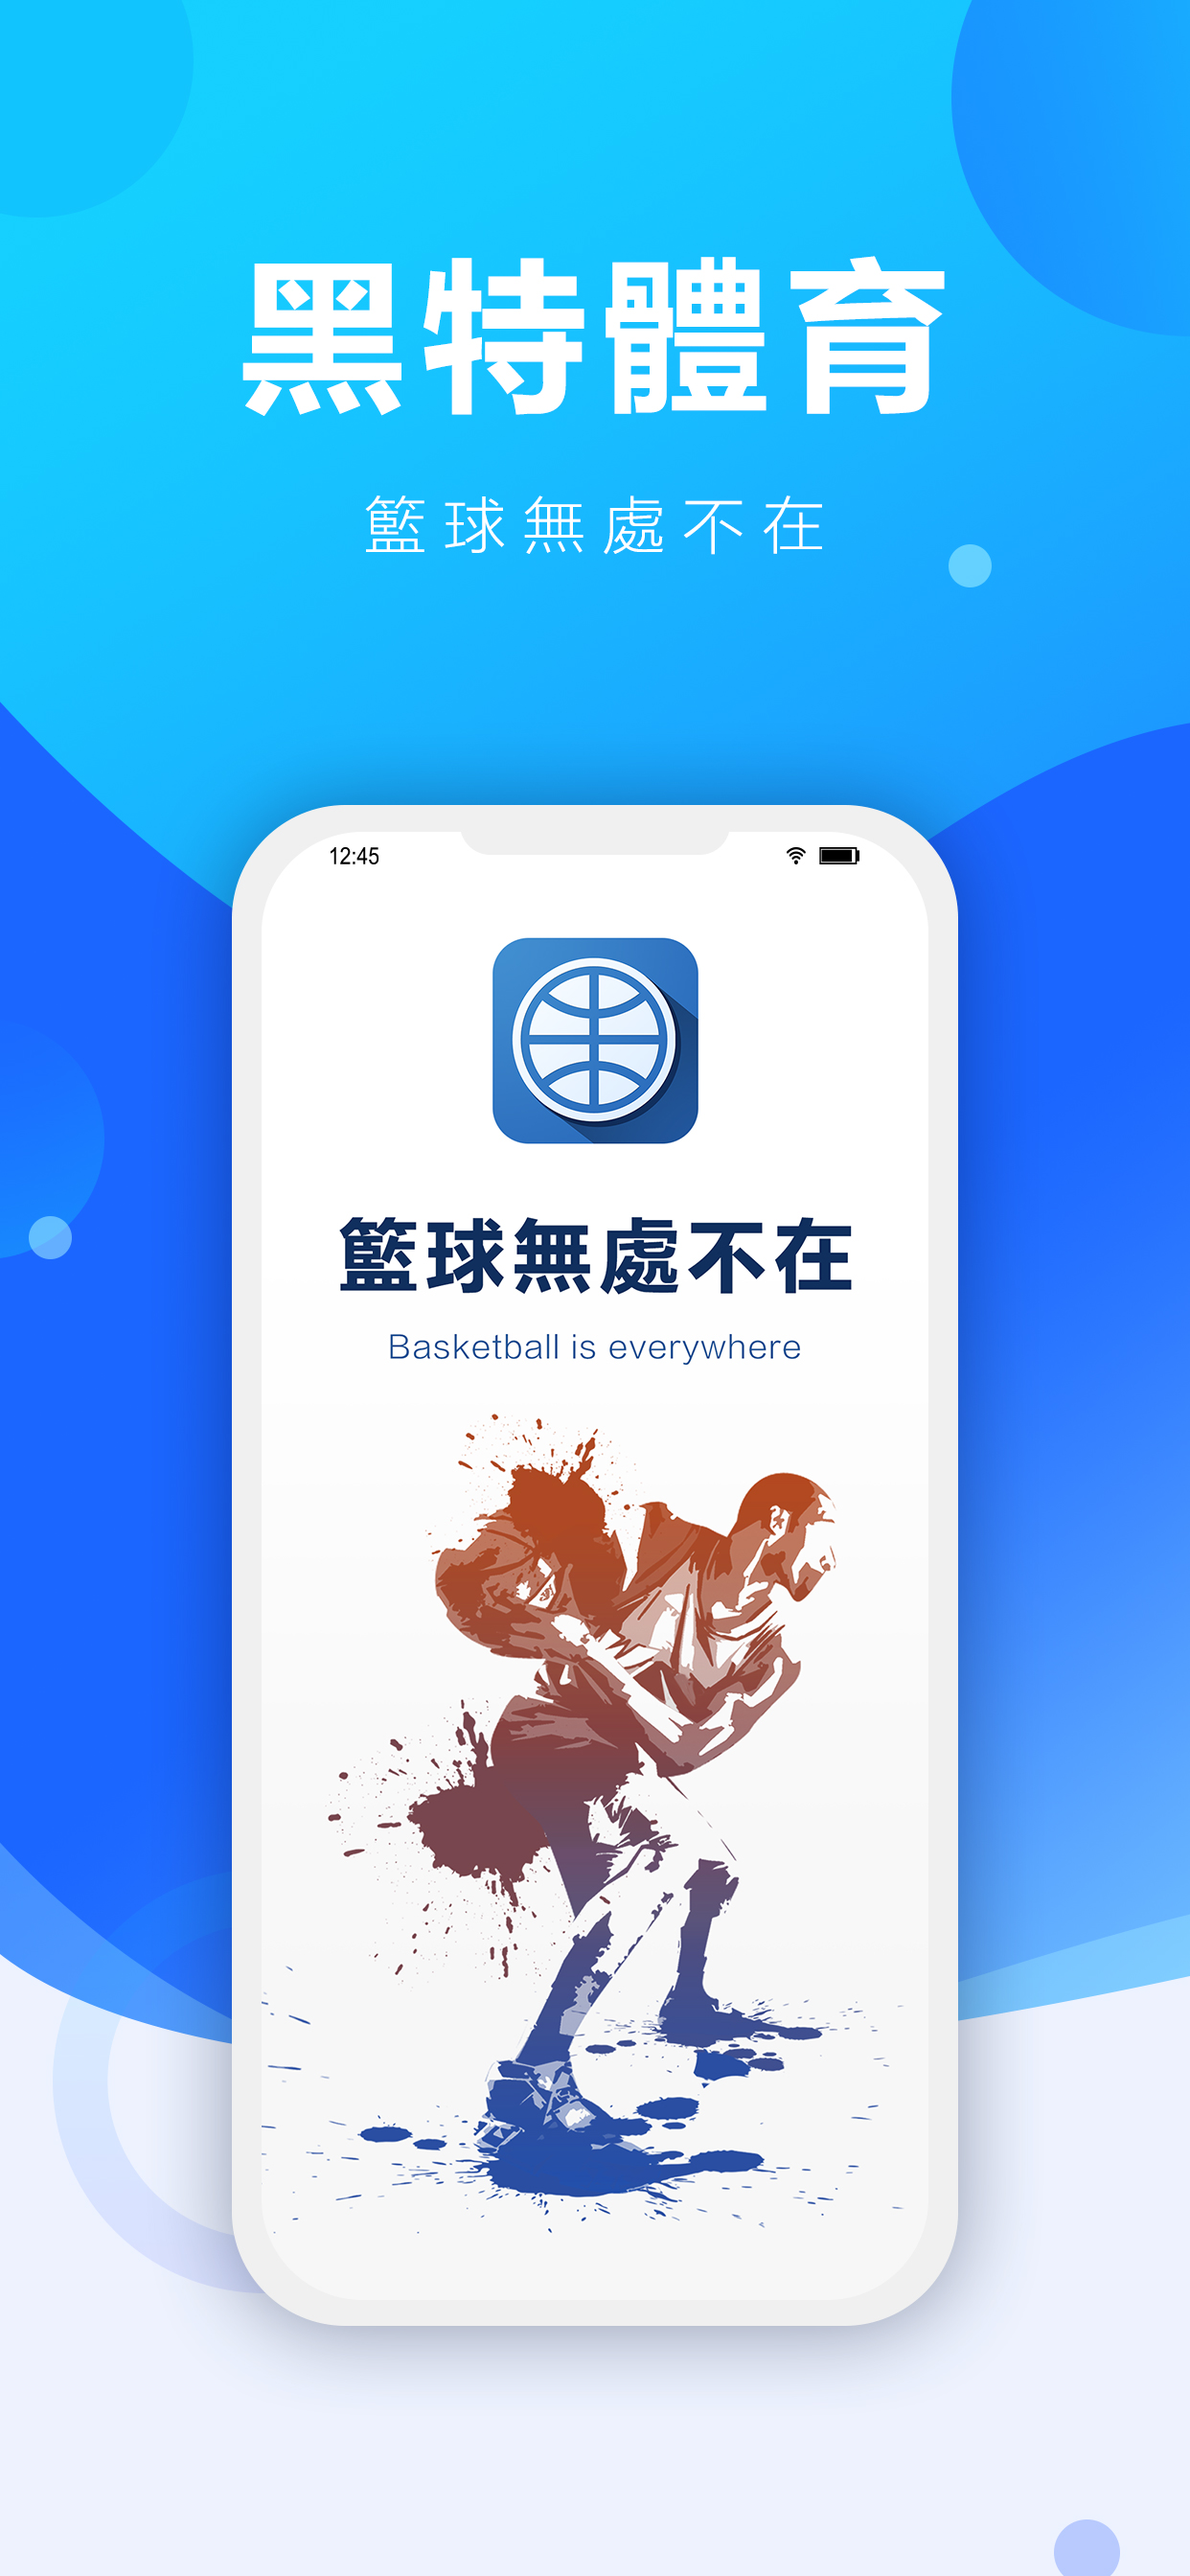
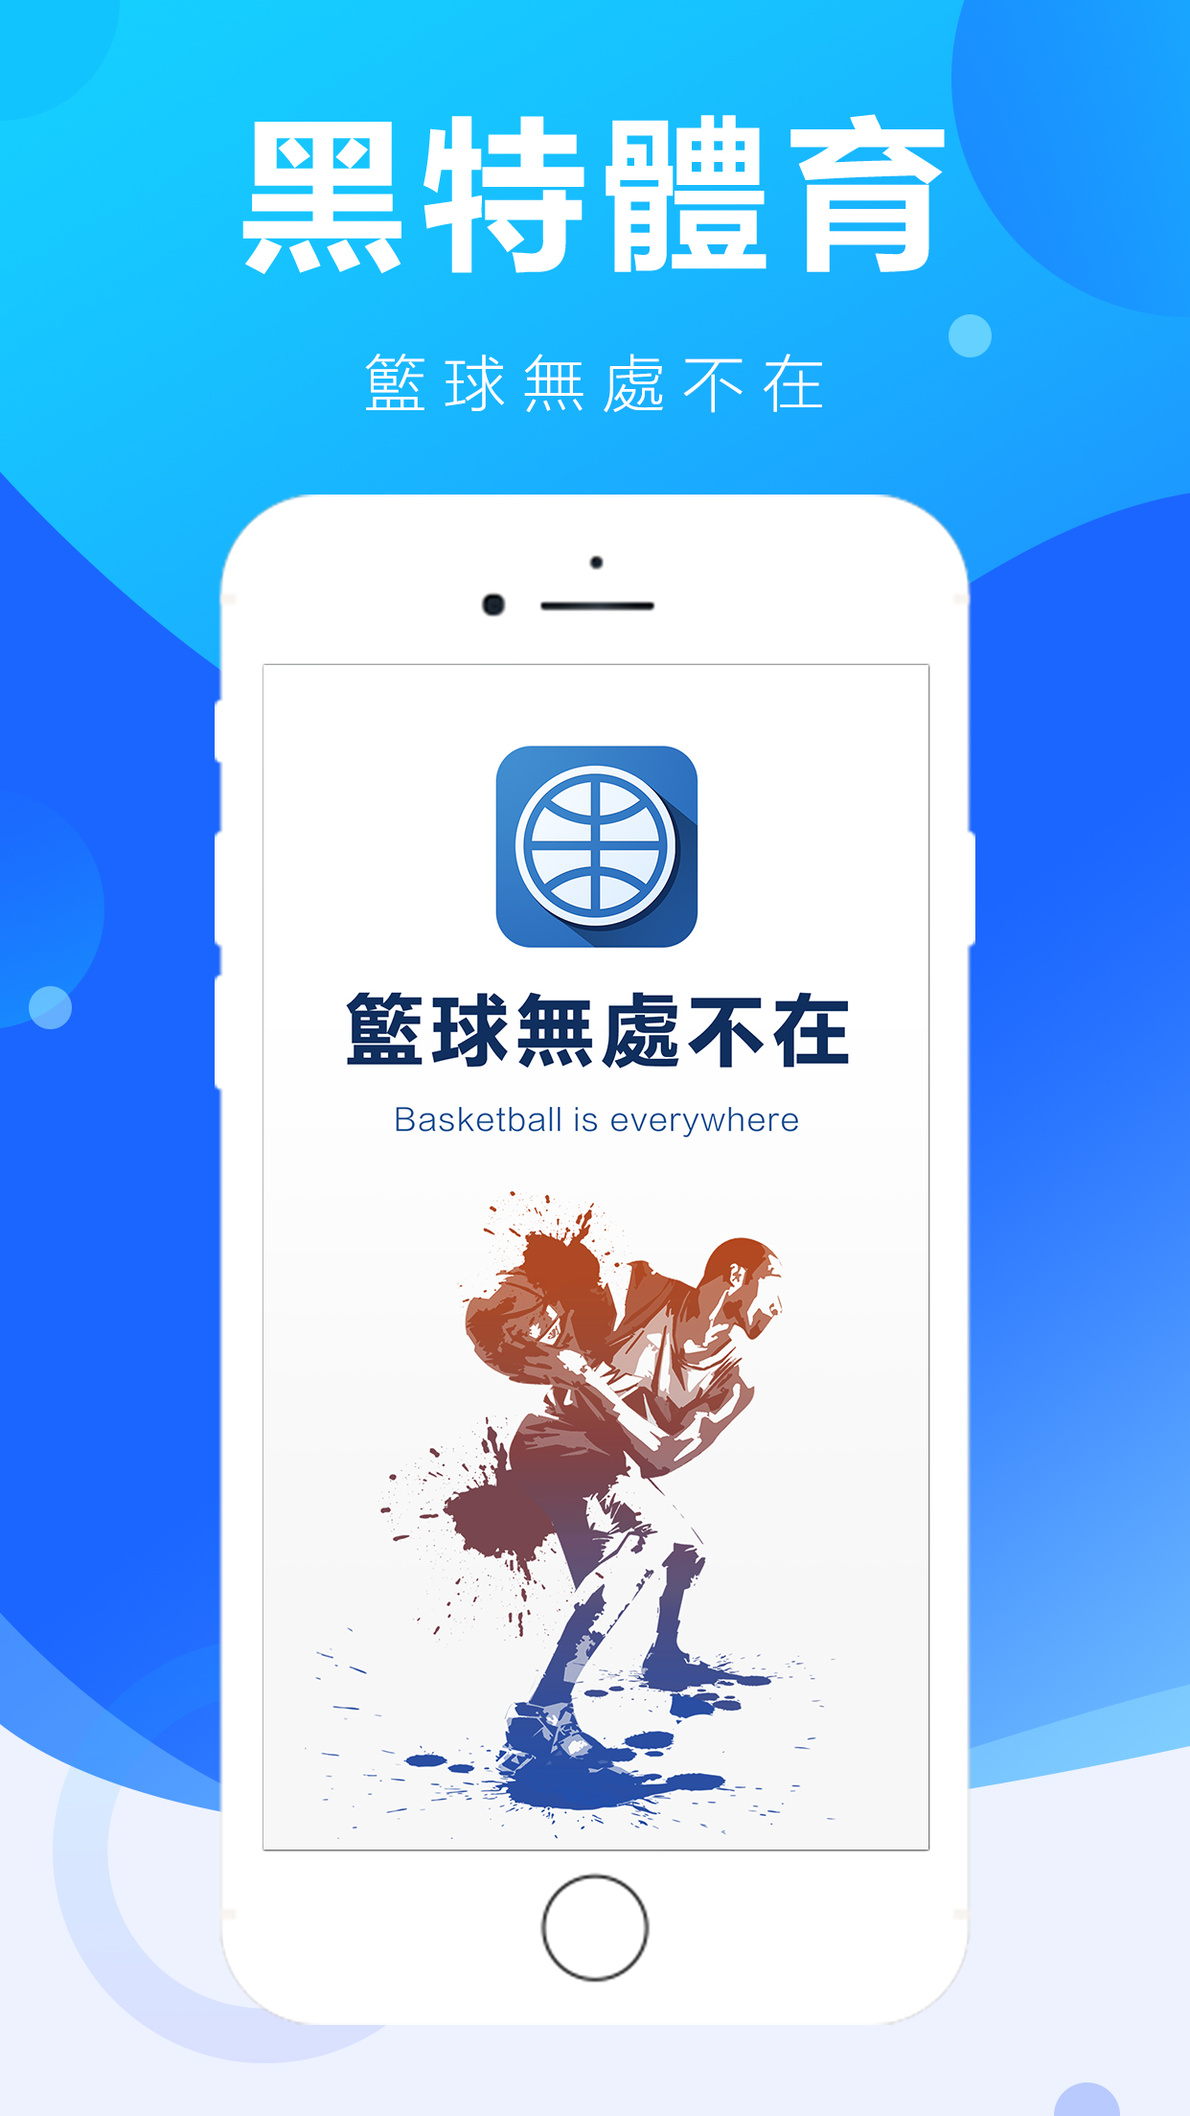
更新启动引导图

diff --git a/SkyBetufi/SourceCode/SkySrc/SkyUI/MMBBLaunch/SkyBallHetiRedPPXXBJLaunchViewController.m b/SkyBetufi/SourceCode/SkySrc/SkyUI/MMBBLaunch/SkyBallHetiRedPPXXBJLaunchViewController.m
@@ -111,7 +111,15 @@
 
 #pragma mark - 设置APP静态图片引导页
 - (void)waterSkysetStaticGuidePage {
-    NSArray *imageNameArray = @[@"guideImageapp1.jpg",@"guideImageapp2.jpg",@"guideImageapp3.jpg", @"guideImageapp5.jpg"];
+    NSArray *imageNameArray;
+    if ([self waterSkyisIPhoneXSeries]) {
+        imageNameArray = @[@"guideImageapp11.jpg",@"guideImageapp12.jpg",@"guideImageapp13.jpg",@"guideImageapp14.jpg", @"guideImageapp15.jpg"];
+        
+    }else{
+        imageNameArray = @[@"guideImageapp1.jpg",@"guideImageapp2.jpg",@"guideImageapp3.jpg",@"guideImageapp4.jpg", @"guideImageapp5.jpg"];
+    }
+    
+    
     SkyBallHetiRedDHGuidePageHUD *guidePage = [[SkyBallHetiRedDHGuidePageHUD alloc] dh_initWithFrame:self.view.frame imageNameArray:imageNameArray buttonIsHidden:NO];
     [guidePage setClickListener:^(NSInteger m) {
           [self waterSkyGoIntoMainController];
@@ -134,6 +142,23 @@
     NSURL *videoURL = [NSURL fileURLWithPath:[[NSBundle mainBundle] pathForResource:@"guideMovie1" ofType:@"mov"]];
     SkyBallHetiRedDHGuidePageHUD *guidePage = [[SkyBallHetiRedDHGuidePageHUD alloc] dh_initWithFrame:self.view.bounds videoURL:videoURL];
     [self.navigationController.view addSubview:guidePage];
+}
+
+-(BOOL)waterSkyisIPhoneXSeries
+{
+    BOOL iPhoneXSeries = NO;
+    if (UIDevice.currentDevice.userInterfaceIdiom != UIUserInterfaceIdiomPhone) {
+        return iPhoneXSeries;
+    }
+    
+    if (@available(iOS 11.0, *)) {
+        UIWindow *mainWindow = [[[UIApplication sharedApplication] delegate] window];
+        if (mainWindow.safeAreaInsets.bottom > 0.0) {
+            iPhoneXSeries = YES;
+        }
+    }
+    
+    return iPhoneXSeries;
 }
 
 @end
